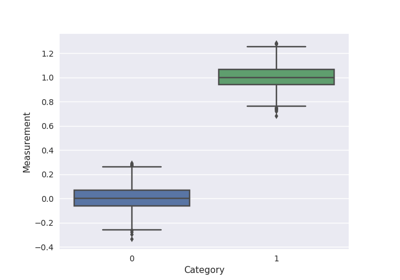
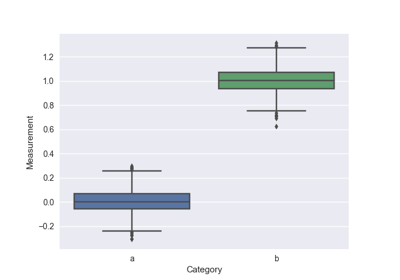
show to change axes tick labels in the sns boxplot example

diff --git a/docs/_examples/plot_sns_boxplot.py b/docs/_examples/plot_sns_boxplot.py
@@ -20,3 +20,4 @@ ax = sns.boxplot(data=(a,b))
 # Name axes
 ax.set_xlabel('Category')
 ax.set_ylabel('Measurement')
+ax.set_xticklabels({"a":0, "b":1})

diff --git a/examples/plot_sns_boxplot.py b/examples/plot_sns_boxplot.py
@@ -20,3 +20,4 @@ ax = sns.boxplot(data=(a,b))
 # Name axes
 ax.set_xlabel('Category')
 ax.set_ylabel('Measurement')
+ax.set_xticklabels({"a":0, "b":1})

diff --git a/docs/_examples/index.rst b/docs/_examples/index.rst
@@ -67,26 +67,6 @@ Code examples
 
 .. raw:: html
 
-    <div class="sphx-glr-thumbcontainer" tooltip="Example boxplot. ">
-
-.. only:: html
-
-    .. figure:: /_examples/images/thumb/sphx_glr_plot_sns_boxplot_thumb.png
-
-        :ref:`sphx_glr__examples_plot_sns_boxplot.py`
-
-.. raw:: html
-
-    </div>
-
-
-.. toctree::
-   :hidden:
-
-   /_examples/plot_sns_boxplot
-
-.. raw:: html
-
     <div class="sphx-glr-thumbcontainer" tooltip="Example histogram. ">
 
 .. only:: html
@@ -144,6 +124,26 @@ Code examples
    :hidden:
 
    /_examples/plot_pd_scatter
+
+.. raw:: html
+
+    <div class="sphx-glr-thumbcontainer" tooltip="Example boxplot. ">
+
+.. only:: html
+
+    .. figure:: /_examples/images/thumb/sphx_glr_plot_sns_boxplot_thumb.png
+
+        :ref:`sphx_glr__examples_plot_sns_boxplot.py`
+
+.. raw:: html
+
+    </div>
+
+
+.. toctree::
+   :hidden:
+
+   /_examples/plot_sns_boxplot
 
 .. raw:: html
 

diff --git a/docs/_examples/plot_sns_boxplot.rst b/docs/_examples/plot_sns_boxplot.rst
@@ -36,8 +36,9 @@ Example boxplot.
     # Name axes
     ax.set_xlabel('Category')
     ax.set_ylabel('Measurement')
+    ax.set_xticklabels({"a":0, "b":1})
 
-**Total running time of the script:** ( 0 minutes  0.711 seconds)
+**Total running time of the script:** ( 0 minutes  0.747 seconds)
 
 
 
